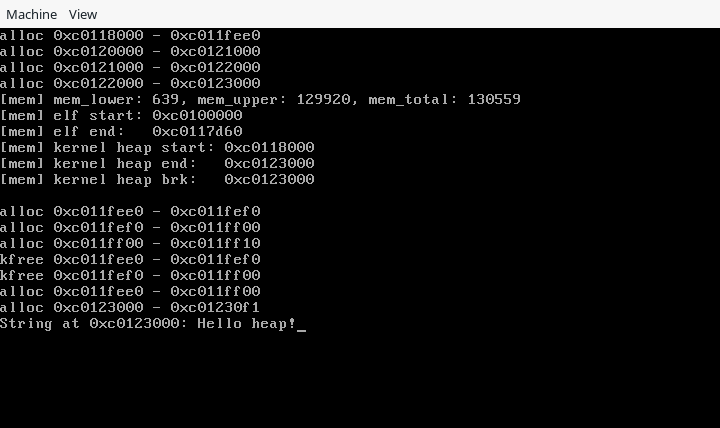
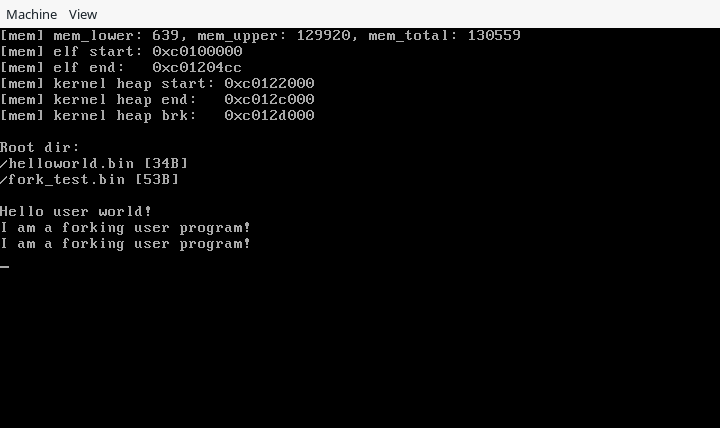
Update screenshot

diff --git a/README.md b/README.md
@@ -1,7 +1,10 @@
 # tevix
-A hobbyist x86 kernel based on the articles from [OSDev.org](http://wiki.osdev.org/Main_Page)
-Some code is borrowed from [bkerndev](http://www.osdever.net/bkerndev/Docs/title.htm) and  [BrokenThorn](http://www.brokenthorn.com/Resources/OSDevIndex.html).
+A hobbyist x86 kernel based on the articles and forums at [OSDev.org](http://wiki.osdev.org/Main_Page)
+Some code is borrowed from [bkerndev](http://www.osdever.net/bkerndev/Docs/title.htm),   [BrokenThorn](http://www.brokenthorn.com/Resources/OSDevIndex.html), and [JamesM](http://www.jamesmolloy.co.uk/tutorial_html/index.html).
 
-Tevix is still and will probably always be a work in progress.  Right now the priority is to implement some solid memory managment.
+Tevix is still and will probably always be a work in progress.  Right now the priority is to:
+* ~~implement some solid memory managment.~~
+* implement some solid task switching.
+
 
 ![](/screenshot.png?raw=true)
